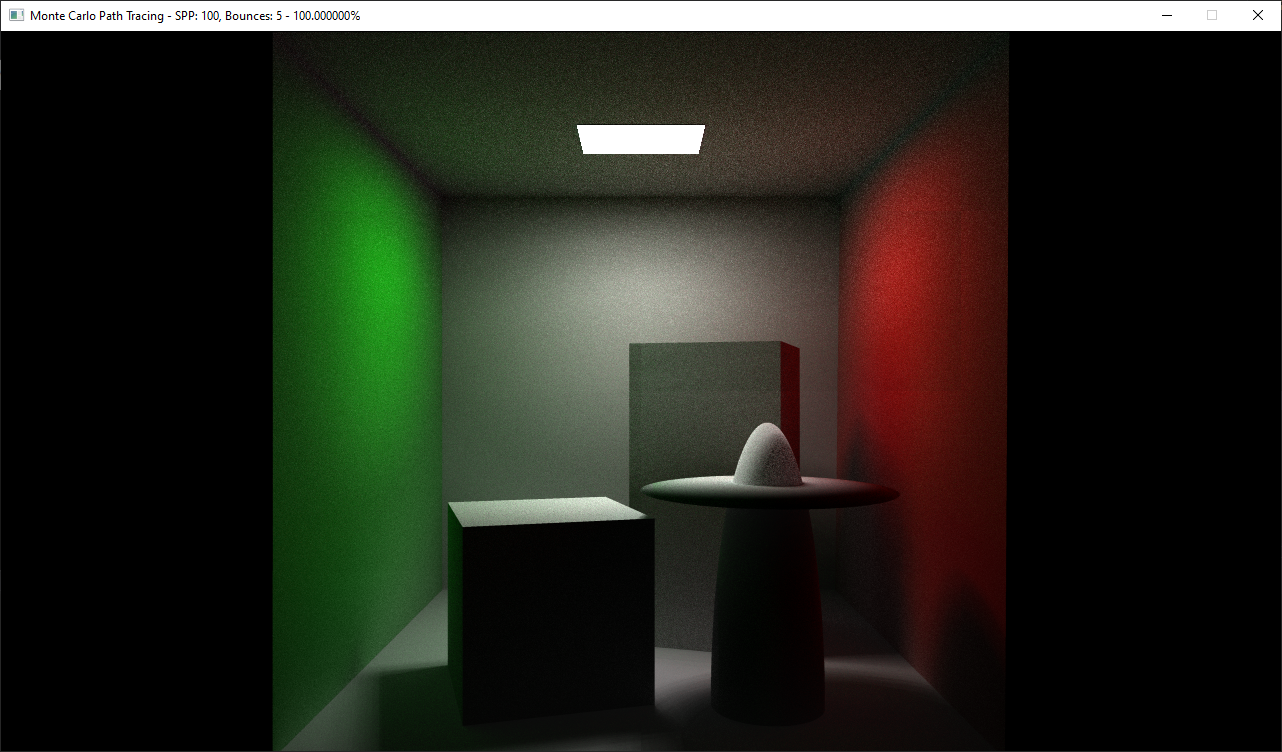
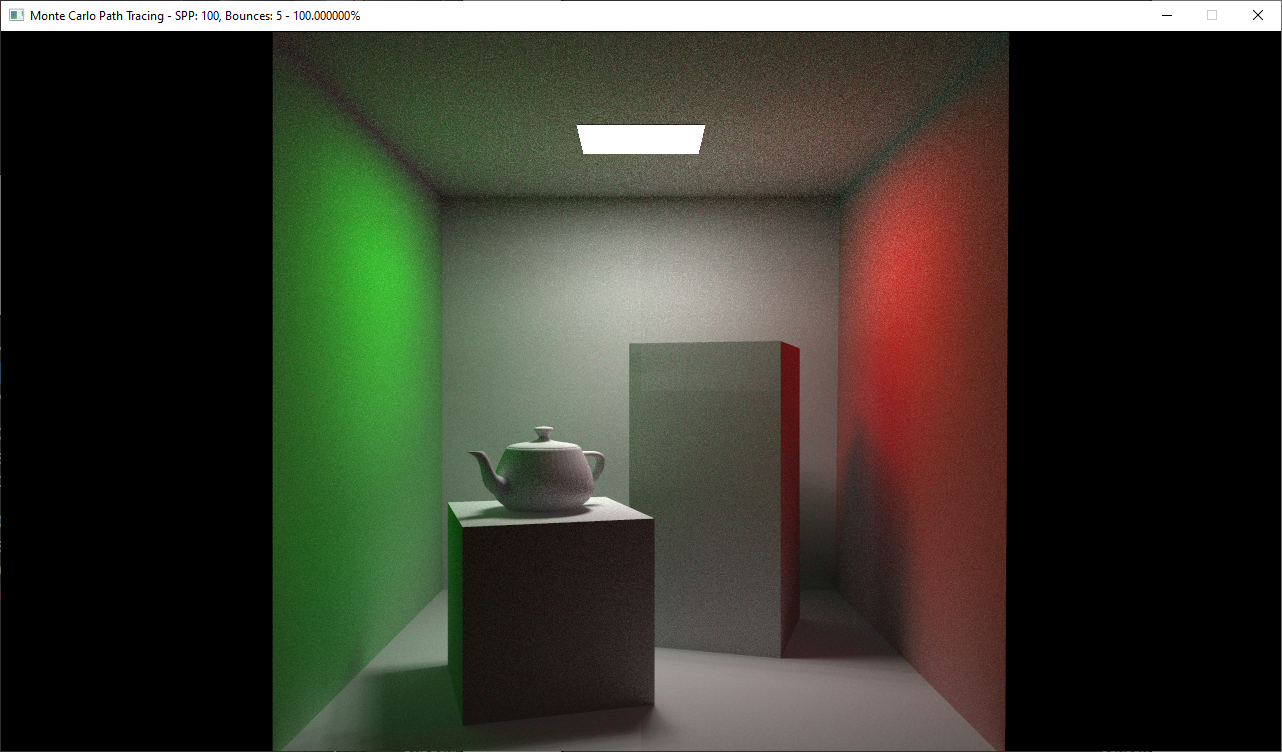
add teapot to cornell box

diff --git a/1986.Kajiya/code/CornellBoxScene.h b/1986.Kajiya/code/CornellBoxScene.h
@@ -92,8 +92,7 @@ class CornellBoxScene : public MySceneWithLight {
 
     _initLight();
 
-// add a ball
-#if 1
+#if 0  // add spheres
     constexpr float BALL_RADIUS = 50;
     constexpr float BALL_Z = 114;
     constexpr float BALL_X = 290 + BALL_RADIUS * 2;
@@ -109,8 +108,16 @@ class CornellBoxScene : public MySceneWithLight {
         createObject<Sphere>("short_ellipsoid")
             .setCenter(glm::vec3(BALL_X, BALL_RADIUS * 3.8f, BALL_Z))
             .setRadius(BALL_RADIUS * 1.5f)
-            .setScale(glm::vec3(1.5f, BALL_S*0.5f, 1.5f));
+            .setScale(glm::vec3(1.5f, BALL_S * 0.5f, 1.5f));
     shortEllipsoid.createMaterial<DiffuseMaterial>().setColor(glm::vec3(1));
+#endif
+
+#if 1  // add teapot
+    const char* const szTeapotFileName = "content/teapot/teapot.obj";
+    auto& teapot = createObject<MeshInstance>("teapot");
+    teapot.setMeshFile(szTeapotFileName);
+    teapot.importMaterial(&mtlImporter);
+    teapot.setPosition(glm::vec3(185.5f, 165, 169)).setRotation(0, 15, 0);
 #endif
   }
 };
